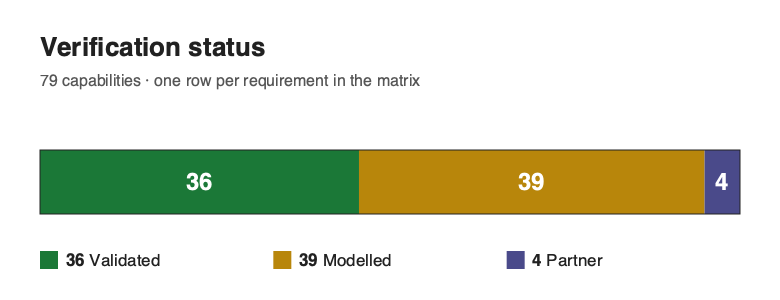
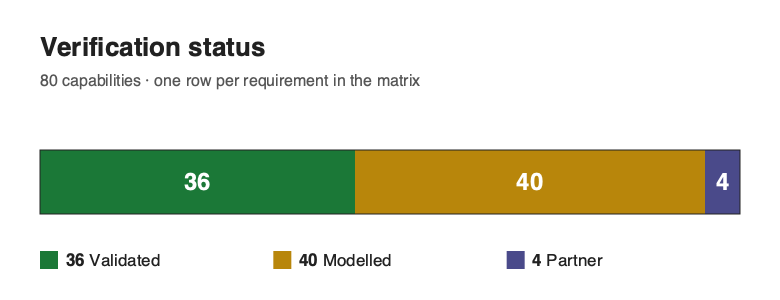
feat(quantum-imu): Mach-Zehnder fringe-ambiguity dynamic range (Modelled)
Closes a documented scope gap in the cold-atom interferometer model (the
module doc had listed fringe ambiguity as out of scope).

The 2*pi-periodic fringe readout sets a maximum unambiguous specific force
a_max = pi/(k_eff*T^2). Because the per-shot resolution sigma_a = sigma_phi/(k_eff*T^2)
scales the same way, the unambiguous range in resolution cells a_max/sigma_a = pi/sigma_phi
is independent of the optical scale factor: a longer interrogation buys
resolution and loses range in exact lockstep, so the achievable cell count is
fixed by the readout phase noise alone.

New free functions max_unambiguous_accel, wrap_phase, accel_from_wrapped_phase,
dynamic_range_cells + CaiAccelerometer convenience methods.

Reference tests (internal-consistency oracle): a_max sits exactly at the +/-pi
half-fringe edge with 1/T^2 range scaling; wrapped-phase recovery is exact
inside [-a_max, a_max] and aliases by exactly 2*a_max outside it; the
unambiguous range a_max/sigma_a = pi/sigma_phi is identical across two very
different wavelength/T scale factors.

Verification matrix 36V/39M/4P/79 -> 36V/40M/4P/80, with the doc-sync cascade.

diff --git a/src/inertial/quantum_imu.rs b/src/inertial/quantum_imu.rs
@@ -39,9 +39,12 @@
 //!   constant shift) — the two leading deterministic systematics — are modelled here.
 //!
 //! Honest scope: this module covers the **quantum-projection-noise floor** (the
-//! fundamental limit), the **vibration-limited** regime above it, and the Coriolis
-//! and light-shift systematics. Wavefront aberration and Mach–Zehnder fringe
-//! ambiguity are still out of scope; see [`docs/QUANTUM.md`](../../docs/QUANTUM.md).
+//! fundamental limit), the **vibration-limited** regime above it, the Coriolis and
+//! light-shift systematics, and the **Mach–Zehnder fringe ambiguity** — the
+//! `2π`-periodic fringe readout sets a maximum unambiguous specific force
+//! `a_max = π/(k_eff·T²)` and a scale-factor-independent dynamic range `π/σ_Φ` (see
+//! [`max_unambiguous_accel`], [`dynamic_range_cells`]). Wavefront aberration remains
+//! out of scope; see [`docs/QUANTUM.md`](../../docs/QUANTUM.md).
 
 use std::f64::consts::PI;
 
@@ -143,6 +146,53 @@ pub fn beam_axis_projection(beam_unit: [f64; 3], accel: [f64; 3]) -> f64 {
     (beam_unit[0] * accel[0] + beam_unit[1] * accel[1] + beam_unit[2] * accel[2]) / norm
 }
 
+/// Maximum **unambiguous** specific force (m/s²) of a three-pulse interferometer with
+/// scale factor `k_eff·T²`: the acceleration at which the fringe phase reaches the
+/// ±π half-fringe edge, `a_max = π/(k_eff·T²)`. Beyond ±`a_max` the measured fringe
+/// phase wraps modulo `2π`, so a single fringe reading is aliased — the same wrapped
+/// phase recurs every `2·a_max` of acceleration. This is the dynamic-range cost of the
+/// `T²` sensitivity gain: the longer interrogation that sharpens resolution shrinks the
+/// unambiguous range by the same factor.
+pub fn max_unambiguous_accel(k_eff: f64, pulse_sep_t: f64) -> f64 {
+    let scale = k_eff * pulse_sep_t * pulse_sep_t;
+    if scale == 0.0 {
+        return f64::INFINITY;
+    }
+    PI / scale
+}
+
+/// Wrap a fringe phase (rad) into the principal interval `[−π, π)` — the only part of
+/// the phase a single fringe readout can observe.
+pub fn wrap_phase(phi: f64) -> f64 {
+    let two_pi = 2.0 * PI;
+    (phi + PI).rem_euclid(two_pi) - PI
+}
+
+/// Specific force (m/s²) inferred from one **wrapped** fringe-phase reading
+/// `phi_wrapped ∈ [−π, π)`, assuming the signal lies within the unambiguous interval:
+/// `a = φ_w/(k_eff·T²)`. Outside `[−a_max, a_max]` this aliases by a multiple of
+/// `2·a_max` — the fringe-ambiguity that [`max_unambiguous_accel`] bounds.
+pub fn accel_from_wrapped_phase(k_eff: f64, phi_wrapped: f64, pulse_sep_t: f64) -> f64 {
+    let scale = k_eff * pulse_sep_t * pulse_sep_t;
+    if scale == 0.0 {
+        return 0.0;
+    }
+    phi_wrapped / scale
+}
+
+/// Unambiguous dynamic range expressed in **resolution cells**: the ratio of the
+/// half-fringe range `a_max` to the per-shot resolution `σ_a = σ_Φ/(k_eff·T²)`. Because
+/// both scale as `1/(k_eff·T²)`, the ratio collapses to `a_max/σ_a = π/σ_Φ`, which is
+/// independent of the optical scale factor — interrogation time trades resolution for
+/// range in exact lockstep, leaving the achievable number of cells fixed by the readout
+/// phase noise alone.
+pub fn dynamic_range_cells(sigma_phi: f64) -> f64 {
+    if sigma_phi == 0.0 {
+        return f64::INFINITY;
+    }
+    PI / sigma_phi
+}
+
 /// A cold-atom Mach–Zehnder accelerometer specified by its physics, with the
 /// derived performance the rest of the engine consumes.
 #[derive(Clone, Copy, Debug)]
@@ -223,6 +273,19 @@ impl CaiAccelerometer {
             return f64::INFINITY;
         }
         self.vibration_phase_noise(accel_psd) / scale
+    }
+
+    /// Maximum unambiguous specific force `a_max = π/(k_eff·T²)` (m/s²) — the
+    /// fringe-wrap edge of this configuration. See [`max_unambiguous_accel`].
+    pub fn max_unambiguous_accel(&self) -> f64 {
+        max_unambiguous_accel(self.k_eff(), self.pulse_sep_t)
+    }
+
+    /// Unambiguous dynamic range in resolution cells, `a_max/σ_a = π/σ_Φ` — fixed by
+    /// the projection-noise phase alone, independent of `k_eff` and `T`. See
+    /// [`dynamic_range_cells`].
+    pub fn dynamic_range_cells(&self) -> f64 {
+        dynamic_range_cells(self.projection_noise_phase())
     }
 }
 
@@ -651,6 +714,71 @@ mod tests {
             (phi2 / phi - 4.0).abs() < 1e-9,
             "T² scaling broken: {}",
             phi2 / phi
+        );
+    }
+
+    #[test]
+    fn fringe_ambiguity_bounds_and_aliasing() {
+        let k = effective_wavevector(RB87_D2_WAVELENGTH_M);
+        let t = 0.01_f64;
+        let a_max = max_unambiguous_accel(k, t);
+        // At a_max the fringe phase is exactly the ±π half-fringe edge.
+        assert!((mach_zehnder_phase(k, a_max, t) - PI).abs() < 1e-9);
+        // 1/T² scaling: doubling T quarters the unambiguous range.
+        let a_max2 = max_unambiguous_accel(k, 2.0 * t);
+        assert!((a_max / a_max2 - 4.0).abs() < 1e-9, "range/T² ratio {}", a_max / a_max2);
+
+        // Inside the unambiguous interval, wrapped-phase recovery is exact.
+        let a_true = 0.7 * a_max;
+        let phi_w = wrap_phase(mach_zehnder_phase(k, a_true, t));
+        let a_rec = accel_from_wrapped_phase(k, phi_w, t);
+        assert!((a_rec - a_true).abs() / a_max < 1e-9, "recovered {a_rec} vs {a_true}");
+
+        // Outside it, one reading aliases by exactly 2·a_max (a full fringe).
+        let a_over = 1.5 * a_max;
+        let a_alias = accel_from_wrapped_phase(k, wrap_phase(mach_zehnder_phase(k, a_over, t)), t);
+        let n = ((a_over - a_alias) / (2.0 * a_max)).round();
+        assert!(n.abs() >= 1.0, "expected an alias, got n={n}");
+        assert!(
+            (a_over - a_alias - n * 2.0 * a_max).abs() / a_max < 1e-9,
+            "alias spacing is not 2·a_max"
+        );
+    }
+
+    #[test]
+    fn dynamic_range_is_scale_factor_independent() {
+        // Same readout phase noise σ_Φ but very different optical scale factors
+        // (wavelength, T) ⇒ identical unambiguous range a_max/σ_a = π/σ_Φ.
+        let sigma_phi = projection_noise_rad(0.5, 1e6); // 2e-3 rad
+        let cells = dynamic_range_cells(sigma_phi);
+        assert!((cells - PI / sigma_phi).abs() < 1e-12);
+        for (lambda, t) in [(RB87_D2_WAVELENGTH_M, 0.01), (852e-9, 0.05)] {
+            let k = effective_wavevector(lambda);
+            let a_max = max_unambiguous_accel(k, t);
+            let sigma_a = accel_sensitivity_per_shot(sigma_phi, k, t);
+            assert!(
+                (a_max / sigma_a - cells).abs() / cells < 1e-9,
+                "range/resolution depends on scale factor: {} vs {cells}",
+                a_max / sigma_a
+            );
+        }
+    }
+
+    #[test]
+    fn cai_methods_match_free_functions() {
+        let cai = CaiAccelerometer {
+            wavelength_m: RB87_D2_WAVELENGTH_M,
+            pulse_sep_t: 0.02,
+            atom_number: 1e6,
+            contrast: 0.5,
+            cycle_time_s: 0.5,
+        };
+        assert!(
+            (cai.max_unambiguous_accel() - max_unambiguous_accel(cai.k_eff(), 0.02)).abs() < 1e-12
+        );
+        assert!(
+            (cai.dynamic_range_cells() - dynamic_range_cells(cai.projection_noise_phase())).abs()
+                < 1e-12
         );
     }
 

diff --git a/src/verification.rs b/src/verification.rs
@@ -407,6 +407,15 @@ pub fn verification_matrix() -> Vec<VerificationItem> {
             status: Modelled,
         },
         VerificationItem {
+            requirement: "Quantum inertial sensor fringe-ambiguity / dynamic range",
+            capability: "Mach–Zehnder fringe-ambiguity dynamic range: the 2π-periodic fringe readout sets a maximum unambiguous specific force a_max=π/(k_eff·T²), and the unambiguous range in resolution cells a_max/σ_a=π/σ_Φ is independent of the optical scale factor — the T² sensitivity gain costs unambiguous range in exact lockstep (interrogation time trades resolution for range, leaving the cell count fixed by the readout phase noise)",
+            module: "inertial::quantum_imu",
+            tests: "quantum_imu::tests (a_max sits at the ±π half-fringe edge with the 1/T² range scaling; wrapped-phase recovery is exact inside [−a_max,a_max] and aliases by exactly 2·a_max outside it; the unambiguous dynamic range a_max/σ_a=π/σ_Φ is identical across two very different wavelength/T scale factors; the CaiAccelerometer methods match the free functions)",
+            oracle: "Self-consistency of the interferometer fringe model: the half-fringe edge, the 2π-periodic aliasing structure, and the scale-factor cancellation in the range/resolution ratio are closed-form algebraic identities checked against the engine's own Mach–Zehnder phase and sensitivity functions — internal-consistency checks, NOT an external dataset, so the row stays InternalConsistency. MODELLED ideal three-pulse fringe-ambiguity; no wavefront-aberration or contrast-loss bounds on the unambiguous range",
+            oracle_kind: InternalConsistency,
+            status: Modelled,
+        },
+        VerificationItem {
             requirement: "Quantum inertial dead-reckoning resilience",
             capability: "Composed bias + scale-factor + VRW + stability-decay position budget over holdover",
             module: "inertial::quantum_imu (QuantumNavBudget)",

diff --git a/docs/MODELLED-RATIONALE.md b/docs/MODELLED-RATIONALE.md
@@ -11,6 +11,7 @@ These capabilities are implemented from published or first-principles physics wi
 | Time-transfer error budgeting | Two-way/TWSTFT (Sagnac), GNSS common-view, PPP; link-jitter→range | InternalConsistency | checked against its own closed-form / analytic identity — catches transcription and coefficient errors, but is not an external oracle — BIPM 2Aω/c² Sagnac closed form, cross-checked against RTKLIB 2.4.3 geodist() (Takasu, BSD-2-Clause, compiled from C) which carries the same Sagnac geometry — independent code but the same closed form, so still InternalConsistency | timetransfer, timetransfer_adv | timetransfer::tests (reciprocal cancellation; two-form Sagnac identity); tests/time_transfer_error_budgeting_reference.rs (Sagnac/geodist geometry cross-checked against RTKLIB 2.4.3 geodist() compiled from C source) |
 | Nav-signal modulation & code-tracking analysis | BPSK-R/BOC PSD, spectral-separation κ, Gabor bandwidth, DLL jitter, multipath | ExternalDataset | a sub-claim is externally checked, but the whole capability composes modelled pieces, so the capability stays Modelled — GPS C/A Gold cross/auto-correlation matched EXACTLY (integer ±65/−1/63) against independent IS-GPS-200 code generation; BPSK-R(1)/BOC(1,1) PSD shape vs an independent scipy periodogram. The modulation/SSC/DLL closed forms (Betz 2001 / Kaplan & Hegarty) remain analytic, so the row stays MODELLED — but the code-correlation sub-claim is externally matched | navsignal | navsignal::tests (BPSK self-SSC = 2/3R_c; unit-area PSD; DLL); tests/nav_signal_modulation_code_tracking_reference.rs (GPS C/A Gold cross/auto-correlation exact-integer match vs independent IS-GPS-200 code generation; BPSK-R(1)/sine-BOC(1,1) PSD vs an independent scipy periodogram) |
 | Quantum inertial sensor performance | Cold-atom interferometer accelerometer from first principles (k_eff·T², QPN) | ExternalDataset | a sub-claim is externally checked, but the whole capability composes modelled pieces, so the capability stays Modelled — Published CAI primary-paper numeric vectors (Cheinet 2008 transfer function; Peters/Freier sensitivity): k_eff·T² matched exactly, shot-noise ASD a one-sided floor within ~2× of each published instrument (real devices carry technical noise above the quantum floor). A bracket, not parity | inertial::quantum_imu | quantum_imu::tests (k_eff; Mach-Zehnder T²; Freier-2016 floor bracket); tests/quantum_inertial_sensor_reference.rs (transfer function |H(ω)|, k_eff·T² and shot-noise ASD vs published Cheinet 2008 / Peters / Freier numeric vectors) |
+| Quantum inertial sensor fringe-ambiguity / dynamic range | Mach–Zehnder fringe-ambiguity dynamic range: the 2π-periodic fringe readout sets a maximum unambiguous specific force a_max=π/(k_eff·T²), and the unambiguous range in resolution cells a_max/σ_a=π/σ_Φ is independent of the optical scale factor — the T² sensitivity gain costs unambiguous range in exact lockstep (interrogation time trades resolution for range, leaving the cell count fixed by the readout phase noise) | InternalConsistency | checked against its own closed-form / analytic identity — catches transcription and coefficient errors, but is not an external oracle — Self-consistency of the interferometer fringe model: the half-fringe edge, the 2π-periodic aliasing structure, and the scale-factor cancellation in the range/resolution ratio are closed-form algebraic identities checked against the engine's own Mach–Zehnder phase and sensitivity functions — internal-consistency checks, NOT an external dataset, so the row stays InternalConsistency. MODELLED ideal three-pulse fringe-ambiguity; no wavefront-aberration or contrast-loss bounds on the unambiguous range | inertial::quantum_imu | quantum_imu::tests (a_max sits at the ±π half-fringe edge with the 1/T² range scaling; wrapped-phase recovery is exact inside [−a_max,a_max] and aliases by exactly 2·a_max outside it; the unambiguous dynamic range a_max/σ_a=π/σ_Φ is identical across two very different wavelength/T scale factors; the CaiAccelerometer methods match the free functions) |
 | Quantum inertial dead-reckoning resilience | Composed bias + scale-factor + VRW + stability-decay position budget over holdover | ReferenceImpl | checked against a separate implementation in this same codebase — independent of the unit under test, but not externally authoritative — Independent numpy Monte-Carlo SDE integration of double-integrated white-acceleration noise (validates the analytic VRW variance by a genuinely independent algorithm) + a Groves 2013 published-value anchor for the bias/scale-factor terms; the CAI device numbers quantify partner hardware and stay MODELLED | inertial::quantum_imu (QuantumNavBudget) | budget_tests (bias vs AccelModel integrator; VRW vs analytic integral); tests/quantum_inertial_dead_reckoning_reference.rs (VRW vs an independent numpy Monte-Carlo double-integration of white-acceleration noise, worst dev 0.42% within ±3% over 6 coast times; bias/scale-factor vs a Groves 2013 closed-form value; holdover round-trips) |
 | GNSS/INS sensor fusion | 15-state error-state EKF (loosely & tightly coupled), tightly-coupled pseudorange/Doppler UKF, and a coupled clock+position filter | ReferenceImpl | checked against a separate implementation in this same codebase — independent of the unit under test, but not externally authoritative — filterpy 1.4.5 (R. Labbe, MIT) on numpy/scipy. The three LINEAR filters reach the uniquely-defined Bayesian posterior independently (Joseph vs standard form, machine precision) — a genuine library-vs-library check; the tightly-coupled UKF shares the same sigma-point recursion, so it is consistency-only. Stays MODELLED (the trajectory truth / sensor calibration are not externally validated) | fusion (gnss_ins_ekf, tightly_coupled, ukf, coupled) | fusion::tests (UKF==linear-KF identity; outage coast; NEES); tests/gnss_ins_sensor_fusion_reference.rs (50 cases vs filterpy 1.4.5: linear EKF loose/tight + coupled-PNT posteriors to ≤2.4e-12; UKF 40-epoch run worst |Δx| 1.9e-7 / |ΔP| 9.5e-6) |
 | GNSS-denied jamming resilience | Geometry J/S link budget, anti-jam C/N₀, per-satellite loss-of-lock | InternalConsistency | checked against its own closed-form / analytic identity — catches transcription and coefficient errors, but is not an external oracle — Anti-jam C/N₀ link-budget equation cross-checked against an independent numpy re-derivation (shares the same closed form → InternalConsistency) plus a real-JammerTest-2024 C/N₀ degradation characterisation | jamming | jamming::tests (PSD-derived Q cross-check; despreading); tests/gnss_denied_jamming_resilience_reference.rs (FSPL/J-S/effective-C-N₀ vs an independent numpy re-derivation of the Kaplan & Hegarty §9.4 link budget; real JammerTest C/N₀ falls monotonically through the 25 dB-Hz threshold) |
@@ -46,4 +47,4 @@ These capabilities are implemented from published or first-principles physics wi
 | TDOA/FDOA passive emitter geolocation | Locate an emitter (jammer/spoofer, or an opportunistic source for reverse-PNT) from time-difference-of-arrival across a receiver network — the τᵢ=(Rᵢ−R₀)/c hyperboloid intersection solved by Gauss–Newton least squares — and, adding frequency-difference-of-arrival (range-rate differences) with moving receivers, jointly recover position and velocity; with the Cramér–Rao lower bound on the position covariance from the measurement geometry | InternalConsistency | checked against its own closed-form / analytic identity — catches transcription and coefficient errors, but is not an external oracle — Self-consistency of the estimator and geometry: forward→inverse round trips, the Fisher/CRLB identity J·CRLB=I, GDOP monotonicity, and the estimator attaining its own Cramér–Rao bound under Monte-Carlo noise — internal-consistency checks, NOT an external dataset, so the row stays InternalConsistency. MODELLED passive geolocation — point-source line-of-sight model; no multipath / NLOS, receiver-clock-bias, or atmospheric-refraction terms | geolocation | geolocation::tests (noiseless TDOA forward→inverse to 1e-6 m; J·CRLB=I with a symmetric PD covariance; the CRLB position-variance trace is non-increasing when a receiver is added; joint TDOA+FDOA recovers a moving emitter's position+velocity; <4 receivers rejected); tests/geolocation_reference.rs (round trips over four geometries with a 3-D-diverse network; the Gauss–Newton estimator attains its Cramér–Rao bound — empirical error covariance tracks the analytic bound over 4000 Monte-Carlo trials) |
 | Wahba/TRIAD/QUEST attitude determination | Optimal three-axis attitude from weighted vector observations (star/sun/magnetometer directions): the deterministic two-vector TRIAD, Davenport's q-method (the exact Wahba-loss minimiser — the optimal quaternion is the largest-eigenvalue eigenvector of the 4×4 Davenport matrix K, solved by a symmetric Jacobi eigensolve), and QUEST (Newton/secant root of K's characteristic equation seeded at Σ weights, then Gibbs-vector quaternion recovery) | InternalConsistency | checked against its own closed-form / analytic identity — catches transcription and coefficient errors, but is not an external oracle — Self-consistency of the attitude estimators: closed-form recovery of a known rotation, the q-method/QUEST cross-check against each other and the optimal-loss property (the q-method is the exact Wahba minimiser, verified by perturbation), and the optimal estimator's statistical advantage over TRIAD under Monte-Carlo noise — internal-consistency checks, NOT an external dataset, so the row stays InternalConsistency. MODELLED point-direction attitude determination — unit-vector observations; no sensor field-of-view, measurement-bias, or temporal-correlation modelling, and QUEST is singular at a 180° rotation (the q-method covers that case) | wahba | wahba::tests (A(identity quaternion)=I; the Jacobi eigensolver satisfies Kv=λv and preserves the trace on a known symmetric matrix; K is symmetric); tests/wahba_reference.rs (TRIAD and the q-method recover a known rotation from noiseless observations to <1e-10 rad with λ_max=Σ weights and zero Wahba loss; the q-method quaternion round-trips the library body→nav convention and yields a proper rotation; QUEST agrees with the optimal q-method on λ_max and attitude to <1e-7 rad; the q-method solution minimises the Wahba loss — every small perturbation raises it; the optimal estimator beats two-vector TRIAD in RMS attitude error over 2000 noisy Monte-Carlo trials) |
 
-39 capabilities labelled MODELLED.
+40 capabilities labelled MODELLED.

diff --git a/docs/VERIFICATION-MATRIX.md b/docs/VERIFICATION-MATRIX.md
@@ -2,7 +2,7 @@
 
 <!-- Generated by `cargo run --bin gen_validation_artifacts` from src/verification.rs; pinned by tests/verification_artifacts_doc_sync.rs. Do not edit by hand. -->
 
-The complete, machine-checked evidence ledger: **79 rows — 36 VALIDATED, 39 MODELLED, 4 PARTNER**. A row may be VALIDATED only with an independent external oracle (the matrix invariant tests enforce this). The same data, with clickable per-row links to each test, module and committed fixture, is the *Validation ledger* on https://kshana.dev. See [MODELLED-RATIONALE.md](MODELLED-RATIONALE.md) for why each Modelled row is not externally validated.
+The complete, machine-checked evidence ledger: **80 rows — 36 VALIDATED, 40 MODELLED, 4 PARTNER**. A row may be VALIDATED only with an independent external oracle (the matrix invariant tests enforce this). The same data, with clickable per-row links to each test, module and committed fixture, is the *Validation ledger* on https://kshana.dev. See [MODELLED-RATIONALE.md](MODELLED-RATIONALE.md) for why each Modelled row is not externally validated.
 
 | Requirement | Capability | Module | Tests | Oracle | Status |
 |---|---|---|---|---|---|
@@ -39,6 +39,7 @@ The complete, machine-checked evidence ledger: **79 rows — 36 VALIDATED, 39 MO
 | Time-transfer error budgeting | Two-way/TWSTFT (Sagnac), GNSS common-view, PPP; link-jitter→range | timetransfer, timetransfer_adv | timetransfer::tests (reciprocal cancellation; two-form Sagnac identity); tests/time_transfer_error_budgeting_reference.rs (Sagnac/geodist geometry cross-checked against RTKLIB 2.4.3 geodist() compiled from C source) | BIPM 2Aω/c² Sagnac closed form, cross-checked against RTKLIB 2.4.3 geodist() (Takasu, BSD-2-Clause, compiled from C) which carries the same Sagnac geometry — independent code but the same closed form, so still InternalConsistency | MODELLED |
 | Nav-signal modulation & code-tracking analysis | BPSK-R/BOC PSD, spectral-separation κ, Gabor bandwidth, DLL jitter, multipath | navsignal | navsignal::tests (BPSK self-SSC = 2/3R_c; unit-area PSD; DLL); tests/nav_signal_modulation_code_tracking_reference.rs (GPS C/A Gold cross/auto-correlation exact-integer match vs independent IS-GPS-200 code generation; BPSK-R(1)/sine-BOC(1,1) PSD vs an independent scipy periodogram) | GPS C/A Gold cross/auto-correlation matched EXACTLY (integer ±65/−1/63) against independent IS-GPS-200 code generation; BPSK-R(1)/BOC(1,1) PSD shape vs an independent scipy periodogram. The modulation/SSC/DLL closed forms (Betz 2001 / Kaplan & Hegarty) remain analytic, so the row stays MODELLED — but the code-correlation sub-claim is externally matched | MODELLED |
 | Quantum inertial sensor performance | Cold-atom interferometer accelerometer from first principles (k_eff·T², QPN) | inertial::quantum_imu | quantum_imu::tests (k_eff; Mach-Zehnder T²; Freier-2016 floor bracket); tests/quantum_inertial_sensor_reference.rs (transfer function |H(ω)|, k_eff·T² and shot-noise ASD vs published Cheinet 2008 / Peters / Freier numeric vectors) | Published CAI primary-paper numeric vectors (Cheinet 2008 transfer function; Peters/Freier sensitivity): k_eff·T² matched exactly, shot-noise ASD a one-sided floor within ~2× of each published instrument (real devices carry technical noise above the quantum floor). A bracket, not parity | MODELLED |
+| Quantum inertial sensor fringe-ambiguity / dynamic range | Mach–Zehnder fringe-ambiguity dynamic range: the 2π-periodic fringe readout sets a maximum unambiguous specific force a_max=π/(k_eff·T²), and the unambiguous range in resolution cells a_max/σ_a=π/σ_Φ is independent of the optical scale factor — the T² sensitivity gain costs unambiguous range in exact lockstep (interrogation time trades resolution for range, leaving the cell count fixed by the readout phase noise) | inertial::quantum_imu | quantum_imu::tests (a_max sits at the ±π half-fringe edge with the 1/T² range scaling; wrapped-phase recovery is exact inside [−a_max,a_max] and aliases by exactly 2·a_max outside it; the unambiguous dynamic range a_max/σ_a=π/σ_Φ is identical across two very different wavelength/T scale factors; the CaiAccelerometer methods match the free functions) | Self-consistency of the interferometer fringe model: the half-fringe edge, the 2π-periodic aliasing structure, and the scale-factor cancellation in the range/resolution ratio are closed-form algebraic identities checked against the engine's own Mach–Zehnder phase and sensitivity functions — internal-consistency checks, NOT an external dataset, so the row stays InternalConsistency. MODELLED ideal three-pulse fringe-ambiguity; no wavefront-aberration or contrast-loss bounds on the unambiguous range | MODELLED |
 | Quantum inertial dead-reckoning resilience | Composed bias + scale-factor + VRW + stability-decay position budget over holdover | inertial::quantum_imu (QuantumNavBudget) | budget_tests (bias vs AccelModel integrator; VRW vs analytic integral); tests/quantum_inertial_dead_reckoning_reference.rs (VRW vs an independent numpy Monte-Carlo double-integration of white-acceleration noise, worst dev 0.42% within ±3% over 6 coast times; bias/scale-factor vs a Groves 2013 closed-form value; holdover round-trips) | Independent numpy Monte-Carlo SDE integration of double-integrated white-acceleration noise (validates the analytic VRW variance by a genuinely independent algorithm) + a Groves 2013 published-value anchor for the bias/scale-factor terms; the CAI device numbers quantify partner hardware and stay MODELLED | MODELLED |
 | GNSS/INS sensor fusion | 15-state error-state EKF (loosely & tightly coupled), tightly-coupled pseudorange/Doppler UKF, and a coupled clock+position filter | fusion (gnss_ins_ekf, tightly_coupled, ukf, coupled) | fusion::tests (UKF==linear-KF identity; outage coast; NEES); tests/gnss_ins_sensor_fusion_reference.rs (50 cases vs filterpy 1.4.5: linear EKF loose/tight + coupled-PNT posteriors to ≤2.4e-12; UKF 40-epoch run worst |Δx| 1.9e-7 / |ΔP| 9.5e-6) | filterpy 1.4.5 (R. Labbe, MIT) on numpy/scipy. The three LINEAR filters reach the uniquely-defined Bayesian posterior independently (Joseph vs standard form, machine precision) — a genuine library-vs-library check; the tightly-coupled UKF shares the same sigma-point recursion, so it is consistency-only. Stays MODELLED (the trajectory truth / sensor calibration are not externally validated) | MODELLED |
 | GNSS-denied jamming resilience | Geometry J/S link budget, anti-jam C/N₀, per-satellite loss-of-lock | jamming | jamming::tests (PSD-derived Q cross-check; despreading); tests/gnss_denied_jamming_resilience_reference.rs (FSPL/J-S/effective-C-N₀ vs an independent numpy re-derivation of the Kaplan & Hegarty §9.4 link budget; real JammerTest C/N₀ falls monotonically through the 25 dB-Hz threshold) | Anti-jam C/N₀ link-budget equation cross-checked against an independent numpy re-derivation (shares the same closed form → InternalConsistency) plus a real-JammerTest-2024 C/N₀ degradation characterisation | MODELLED |
@@ -86,4 +87,4 @@ The complete, machine-checked evidence ledger: **79 rows — 36 VALIDATED, 39 MO
 | TDOA/FDOA passive emitter geolocation | Locate an emitter (jammer/spoofer, or an opportunistic source for reverse-PNT) from time-difference-of-arrival across a receiver network — the τᵢ=(Rᵢ−R₀)/c hyperboloid intersection solved by Gauss–Newton least squares — and, adding frequency-difference-of-arrival (range-rate differences) with moving receivers, jointly recover position and velocity; with the Cramér–Rao lower bound on the position covariance from the measurement geometry | geolocation | geolocation::tests (noiseless TDOA forward→inverse to 1e-6 m; J·CRLB=I with a symmetric PD covariance; the CRLB position-variance trace is non-increasing when a receiver is added; joint TDOA+FDOA recovers a moving emitter's position+velocity; <4 receivers rejected); tests/geolocation_reference.rs (round trips over four geometries with a 3-D-diverse network; the Gauss–Newton estimator attains its Cramér–Rao bound — empirical error covariance tracks the analytic bound over 4000 Monte-Carlo trials) | Self-consistency of the estimator and geometry: forward→inverse round trips, the Fisher/CRLB identity J·CRLB=I, GDOP monotonicity, and the estimator attaining its own Cramér–Rao bound under Monte-Carlo noise — internal-consistency checks, NOT an external dataset, so the row stays InternalConsistency. MODELLED passive geolocation — point-source line-of-sight model; no multipath / NLOS, receiver-clock-bias, or atmospheric-refraction terms | MODELLED |
 | Wahba/TRIAD/QUEST attitude determination | Optimal three-axis attitude from weighted vector observations (star/sun/magnetometer directions): the deterministic two-vector TRIAD, Davenport's q-method (the exact Wahba-loss minimiser — the optimal quaternion is the largest-eigenvalue eigenvector of the 4×4 Davenport matrix K, solved by a symmetric Jacobi eigensolve), and QUEST (Newton/secant root of K's characteristic equation seeded at Σ weights, then Gibbs-vector quaternion recovery) | wahba | wahba::tests (A(identity quaternion)=I; the Jacobi eigensolver satisfies Kv=λv and preserves the trace on a known symmetric matrix; K is symmetric); tests/wahba_reference.rs (TRIAD and the q-method recover a known rotation from noiseless observations to <1e-10 rad with λ_max=Σ weights and zero Wahba loss; the q-method quaternion round-trips the library body→nav convention and yields a proper rotation; QUEST agrees with the optimal q-method on λ_max and attitude to <1e-7 rad; the q-method solution minimises the Wahba loss — every small perturbation raises it; the optimal estimator beats two-vector TRIAD in RMS attitude error over 2000 noisy Monte-Carlo trials) | Self-consistency of the attitude estimators: closed-form recovery of a known rotation, the q-method/QUEST cross-check against each other and the optimal-loss property (the q-method is the exact Wahba minimiser, verified by perturbation), and the optimal estimator's statistical advantage over TRIAD under Monte-Carlo noise — internal-consistency checks, NOT an external dataset, so the row stays InternalConsistency. MODELLED point-direction attitude determination — unit-vector observations; no sensor field-of-view, measurement-bias, or temporal-correlation modelling, and QUEST is singular at a 180° rotation (the q-method covers that case) | MODELLED |
 
-79 rows: 36 externally validated, 39 modelled, 4 partner-owned.
+80 rows: 36 externally validated, 40 modelled, 4 partner-owned.

diff --git a/README.md b/README.md
@@ -14,7 +14,7 @@
 <p align="center">
   <a href="https://ashfordeou.github.io/kshana/"><img src="https://img.shields.io/badge/playground-try%20in%20browser-c79e63" alt="Live playground — run in your browser, no install"></a>
   <a href="tests/sgp4_verification.rs"><img src="https://img.shields.io/badge/SGP4-666%2F666%20AIAA%20vectors%20%C2%B7%204.12mm-3fb950" alt="SGP4 validated against all 666 AIAA 2006-6753 vectors, worst 4.12 mm"></a>
-  <a href="#validation-at-a-glance"><img src="https://img.shields.io/badge/validated-36%20external%20oracles-3fb950" alt="36 capabilities validated against independent external oracles (real data, independent libraries, or published reference vectors); 39 more are honestly labelled MODELLED and 4 are PARTNER-owned — see Validation at a glance"></a>
+  <a href="#validation-at-a-glance"><img src="https://img.shields.io/badge/validated-36%20external%20oracles-3fb950" alt="36 capabilities validated against independent external oracles (real data, independent libraries, or published reference vectors); 40 more are honestly labelled MODELLED and 4 are PARTNER-owned — see Validation at a glance"></a>
   <a href="https://github.com/AshfordeOU/kshana/actions/workflows/ci.yml"><img src="https://img.shields.io/badge/coverage-~96%25%20line-3fb950" alt="~96% line coverage on src/ (cargo-tarpaulin LLVM engine), gated at 85% in CI"></a>
   <a href="https://github.com/AshfordeOU/kshana/actions/workflows/ci.yml"><img src="https://github.com/AshfordeOU/kshana/actions/workflows/ci.yml/badge.svg" alt="CI"></a>
   <a href="https://github.com/AshfordeOU/kshana/releases"><img src="https://img.shields.io/badge/release-v0.22.0-c79e63" alt="Release v0.22.0"></a>
@@ -46,7 +46,7 @@ navigation. Every result is reproducible from `scenario + seed + engine version`
 and every sensor parameter is traceable to a published source — consolidated in one
 citable table in [`docs/PROVENANCE.md`](docs/PROVENANCE.md).
 
-<p align="center"><em><strong>Validated, not asserted.</strong> &nbsp;666/666 AIAA SGP4 vectors to <strong>4.12&nbsp;mm</strong> · Cowell force model <strong>0.08&nbsp;m</strong> vs Orekit&nbsp;12.2 · Galileo <strong>0.61&nbsp;m</strong> / Swarm-A <strong>0.10&nbsp;m</strong> vs real ESA precise ephemerides · GCRS→ITRS bit-for-bit vs SOFA/ERFA · ML metrics exact vs scikit-learn · <strong>36 of 79</strong> capabilities validated against independent external oracles; 39 honestly labelled Modelled.</em></p>
+<p align="center"><em><strong>Validated, not asserted.</strong> &nbsp;666/666 AIAA SGP4 vectors to <strong>4.12&nbsp;mm</strong> · Cowell force model <strong>0.08&nbsp;m</strong> vs Orekit&nbsp;12.2 · Galileo <strong>0.61&nbsp;m</strong> / Swarm-A <strong>0.10&nbsp;m</strong> vs real ESA precise ephemerides · GCRS→ITRS bit-for-bit vs SOFA/ERFA · ML metrics exact vs scikit-learn · <strong>36 of 80</strong> capabilities validated against independent external oracles; 40 honestly labelled Modelled.</em></p>
 
 <p align="center">
   <img src="docs/assets/diagrams/system-overview.png" alt="Kshana system overview: five front doors (CLI, Python wheel, WebAssembly playground, MCP server, JetBrains plugin) converge on a single api::run_toml dispatch over 44 scenario kinds, through the engine (shared core, sensor packs and astrodynamics, integrity/fusion/lunar/deep-space/resilience), to a reproducible result.json + chart.svg" width="840">
@@ -67,8 +67,8 @@ Each row is checked against an **independent external oracle** (real dataset, in
 | ✅ | GNSS DOP · ML detector metrics | to **1e-6** · to **1e-9** | gnss_lib_py · scikit-learn |
 
 <p align="center">
-  <img src="docs/assets/figures/validation-breakdown.png" alt="Verification status across all 79 capabilities: 36 Validated (checked vs external oracle), 39 Modelled, 4 Partner-owned" width="780">
-  <br><sub>36 Validated · 39 Modelled · 4 Partner — <a href="docs/assets/figures/validation-breakdown.svg">SVG</a></sub>
+  <img src="docs/assets/figures/validation-breakdown.png" alt="Verification status across all 80 capabilities: 36 Validated (checked vs external oracle), 40 Modelled, 4 Partner-owned" width="780">
+  <br><sub>36 Validated · 40 Modelled · 4 Partner — <a href="docs/assets/figures/validation-breakdown.svg">SVG</a></sub>
 </p>
 
 *Free and open source under the GNU AGPL-3.0 — with a commercial licence available
@@ -1005,7 +1005,7 @@ kshana/
 ### Validation at a glance
 
 <p align="center">
-  <img src="docs/assets/diagrams/validation-provenance.png" alt="How a capability earns its label: Requirement maps to a module in src, to a test in tests, to an external oracle (real dataset, independent reference implementation, or published vectors), to a status — with a CI-enforced guard that no capability can be Validated without an external oracle. Live counts: 36 Validated, 39 Modelled, 4 Partner, 79 total" width="900">
+  <img src="docs/assets/diagrams/validation-provenance.png" alt="How a capability earns its label: Requirement maps to a module in src, to a test in tests, to an external oracle (real dataset, independent reference implementation, or published vectors), to a status — with a CI-enforced guard that no capability can be Validated without an external oracle. Live counts: 36 Validated, 40 Modelled, 4 Partner, 80 total" width="900">
   <br><sub>How a capability earns its label — the CI-enforced invariant: no external oracle ⇒ cannot be Validated · <a href="docs/assets/diagrams/validation-provenance.svg">SVG</a></sub>
 </p>
 
@@ -1017,7 +1017,7 @@ kshana/
 </p>
 
 Every row is enforced by a named test in CI. This table is a **curated highlight**;
-the full machine-checked matrix is **79 rows — 36 VALIDATED, 39 MODELLED, 4 PARTNER**
+the full machine-checked matrix is **80 rows — 36 VALIDATED, 40 MODELLED, 4 PARTNER**
 (`src/verification.rs`), with the complete evidence (and what is honestly *not* yet
 validated) in [`docs/VALIDATION.md`](docs/VALIDATION.md) and the per-release
 [`kshana-validation-summary.html`](https://github.com/AshfordeOU/kshana/releases)

diff --git a/README.crates.md b/README.crates.md
@@ -14,7 +14,7 @@
 
 <p align="center">
   <a href="https://github.com/AshfordeOU/kshana/blob/main/tests/sgp4_verification.rs"><img src="https://img.shields.io/badge/SGP4-666%2F666%20AIAA%20vectors%20%C2%B7%204.12mm-3fb950" alt="SGP4 validated against all 666 AIAA 2006-6753 vectors, worst 4.12 mm"></a>
-  <a href="https://github.com/AshfordeOU/kshana#validation-at-a-glance"><img src="https://img.shields.io/badge/validated-36%20external%20oracles-3fb950" alt="36 of 79 capabilities validated against independent external oracles"></a>
+  <a href="https://github.com/AshfordeOU/kshana#validation-at-a-glance"><img src="https://img.shields.io/badge/validated-36%20external%20oracles-3fb950" alt="36 of 80 capabilities validated against independent external oracles"></a>
   <a href="https://github.com/AshfordeOU/kshana/actions/workflows/ci.yml"><img src="https://img.shields.io/badge/coverage-~96%25%20line-3fb950" alt="~96% line coverage, gated at 85% in CI"></a>
   <a href="https://github.com/AshfordeOU/kshana/releases"><img src="https://img.shields.io/badge/release-v0.22.0-c79e63" alt="Release v0.22.0"></a>
   <a href="https://ashforde.org"><img src="https://img.shields.io/badge/playground-try%20in%20browser-c79e63" alt="Live playground — run in your browser, no install"></a>
@@ -33,8 +33,8 @@ traceable to a published source.
 > ***Validated, not asserted.*** 666/666 AIAA SGP4 vectors to **4.12 mm** · Cowell
 > force model **0.08 m** vs Orekit 12.2 · Galileo **0.61 m** / Swarm-A **0.10 m** vs
 > real ESA precise ephemerides · GCRS→ITRS bit-for-bit vs SOFA/ERFA · ML metrics exact
-> vs scikit-learn · **36 of 79** capabilities validated against independent external
-> oracles; 39 honestly labelled Modelled, 4 partner-owned.
+> vs scikit-learn · **36 of 80** capabilities validated against independent external
+> oracles; 40 honestly labelled Modelled, 4 partner-owned.
 
 <p align="center">
   <img src="https://raw.githubusercontent.com/AshfordeOU/kshana/main/docs/assets/diagrams/system-overview.png" alt="Kshana system overview: five front doors (CLI, Python wheel, WebAssembly playground, MCP server, JetBrains plugin) converge on a single api::run_toml dispatch, through the engine, to a reproducible result.json + chart.svg" width="840">
@@ -55,7 +55,7 @@ independent reference implementation, or published reference vectors) and re-che
 | ✅ | GNSS DOP · ML detector metrics | to **1e-6** · to **1e-9** | gnss_lib_py · scikit-learn |
 
 <p align="center">
-  <img src="https://raw.githubusercontent.com/AshfordeOU/kshana/main/docs/assets/figures/validation-breakdown.png" alt="Verification status across all 79 capabilities: 36 Validated, 39 Modelled, 4 Partner-owned" width="780">
+  <img src="https://raw.githubusercontent.com/AshfordeOU/kshana/main/docs/assets/figures/validation-breakdown.png" alt="Verification status across all 80 capabilities: 36 Validated, 40 Modelled, 4 Partner-owned" width="780">
 </p>
 
 ## Install

diff --git a/README.pypi.md b/README.pypi.md
@@ -14,7 +14,7 @@
 
 <p align="center">
   <a href="https://github.com/AshfordeOU/kshana/blob/main/tests/sgp4_verification.rs"><img src="https://img.shields.io/badge/SGP4-666%2F666%20AIAA%20vectors%20%C2%B7%204.12mm-3fb950" alt="SGP4 validated against all 666 AIAA 2006-6753 vectors, worst 4.12 mm"></a>
-  <a href="https://github.com/AshfordeOU/kshana#validation-at-a-glance"><img src="https://img.shields.io/badge/validated-36%20external%20oracles-3fb950" alt="36 of 79 capabilities validated against independent external oracles"></a>
+  <a href="https://github.com/AshfordeOU/kshana#validation-at-a-glance"><img src="https://img.shields.io/badge/validated-36%20external%20oracles-3fb950" alt="36 of 80 capabilities validated against independent external oracles"></a>
   <a href="https://github.com/AshfordeOU/kshana/actions/workflows/ci.yml"><img src="https://img.shields.io/badge/coverage-~96%25%20line-3fb950" alt="~96% line coverage, gated at 85% in CI"></a>
   <a href="https://github.com/AshfordeOU/kshana/releases"><img src="https://img.shields.io/badge/release-v0.22.0-c79e63" alt="Release v0.22.0"></a>
   <a href="https://ashforde.org"><img src="https://img.shields.io/badge/playground-try%20in%20browser-c79e63" alt="Live playground — run in your browser, no install"></a>
@@ -34,8 +34,8 @@ published source.
 > ***Validated, not asserted.*** 666/666 AIAA SGP4 vectors to **4.12 mm** · Cowell
 > force model **0.08 m** vs Orekit 12.2 · Galileo **0.61 m** / Swarm-A **0.10 m** vs
 > real ESA precise ephemerides · GCRS→ITRS bit-for-bit vs SOFA/ERFA · ML metrics exact
-> vs scikit-learn · **36 of 79** capabilities validated against independent external
-> oracles; 39 honestly labelled Modelled, 4 partner-owned.
+> vs scikit-learn · **36 of 80** capabilities validated against independent external
+> oracles; 40 honestly labelled Modelled, 4 partner-owned.
 
 <p align="center">
   <img src="https://raw.githubusercontent.com/AshfordeOU/kshana/main/docs/assets/diagrams/system-overview.png" alt="Kshana system overview: five front doors (CLI, Python wheel, WebAssembly playground, MCP server, JetBrains plugin) converge on a single api::run_toml dispatch, through the engine, to a reproducible result.json + chart.svg" width="840">
@@ -56,7 +56,7 @@ independent reference implementation, or published reference vectors) and re-che
 | ✅ | GNSS DOP · ML detector metrics | to **1e-6** · to **1e-9** | gnss_lib_py · scikit-learn |
 
 <p align="center">
-  <img src="https://raw.githubusercontent.com/AshfordeOU/kshana/main/docs/assets/figures/validation-breakdown.png" alt="Verification status across all 79 capabilities: 36 Validated, 39 Modelled, 4 Partner-owned" width="780">
+  <img src="https://raw.githubusercontent.com/AshfordeOU/kshana/main/docs/assets/figures/validation-breakdown.png" alt="Verification status across all 80 capabilities: 36 Validated, 40 Modelled, 4 Partner-owned" width="780">
 </p>
 
 ## Install

diff --git a/README.npm.md b/README.npm.md
@@ -15,7 +15,7 @@
 
 <p align="center">
   <a href="https://github.com/AshfordeOU/kshana/blob/main/tests/sgp4_verification.rs"><img src="https://img.shields.io/badge/SGP4-666%2F666%20AIAA%20vectors%20%C2%B7%204.12mm-3fb950" alt="SGP4 validated against all 666 AIAA 2006-6753 vectors, worst 4.12 mm"></a>
-  <a href="https://github.com/AshfordeOU/kshana#validation-at-a-glance"><img src="https://img.shields.io/badge/validated-36%20external%20oracles-3fb950" alt="36 of 79 capabilities validated against independent external oracles"></a>
+  <a href="https://github.com/AshfordeOU/kshana#validation-at-a-glance"><img src="https://img.shields.io/badge/validated-36%20external%20oracles-3fb950" alt="36 of 80 capabilities validated against independent external oracles"></a>
   <a href="https://github.com/AshfordeOU/kshana/releases"><img src="https://img.shields.io/badge/release-v0.22.0-c79e63" alt="Release v0.22.0"></a>
   <a href="https://ashforde.org"><img src="https://img.shields.io/badge/playground-try%20in%20browser-c79e63" alt="Live playground — run in your browser, no install"></a>
   <a href="https://github.com/AshfordeOU/kshana/blob/main/LICENSE"><img src="https://img.shields.io/badge/License-AGPL_v3-blue.svg" alt="License: AGPL-3.0-only"></a>
@@ -32,8 +32,8 @@ parameter is traceable to a published source.
 > ***Validated, not asserted.*** 666/666 AIAA SGP4 vectors to **4.12 mm** · Cowell
 > force model **0.08 m** vs Orekit 12.2 · Galileo **0.61 m** / Swarm-A **0.10 m** vs
 > real ESA precise ephemerides · GCRS→ITRS bit-for-bit vs SOFA/ERFA · ML metrics exact
-> vs scikit-learn · **36 of 79** capabilities validated against independent external
-> oracles; 39 honestly labelled Modelled, 4 partner-owned.
+> vs scikit-learn · **36 of 80** capabilities validated against independent external
+> oracles; 40 honestly labelled Modelled, 4 partner-owned.
 
 <p align="center">
   <img src="https://raw.githubusercontent.com/AshfordeOU/kshana/main/docs/assets/diagrams/system-overview.png" alt="Kshana system overview: five front doors (CLI, Python wheel, WebAssembly playground, MCP server, JetBrains plugin) converge on a single api::run_toml dispatch, through the engine, to a reproducible result.json + chart.svg" width="840">
@@ -51,7 +51,7 @@ parameter is traceable to a published source.
 | ✅ | GNSS DOP · ML detector metrics | to **1e-6** · to **1e-9** | gnss_lib_py · scikit-learn |
 
 <p align="center">
-  <img src="https://raw.githubusercontent.com/AshfordeOU/kshana/main/docs/assets/figures/validation-breakdown.png" alt="Verification status across all 79 capabilities: 36 Validated, 39 Modelled, 4 Partner-owned" width="780">
+  <img src="https://raw.githubusercontent.com/AshfordeOU/kshana/main/docs/assets/figures/validation-breakdown.png" alt="Verification status across all 80 capabilities: 36 Validated, 40 Modelled, 4 Partner-owned" width="780">
 </p>
 
 ## Install
